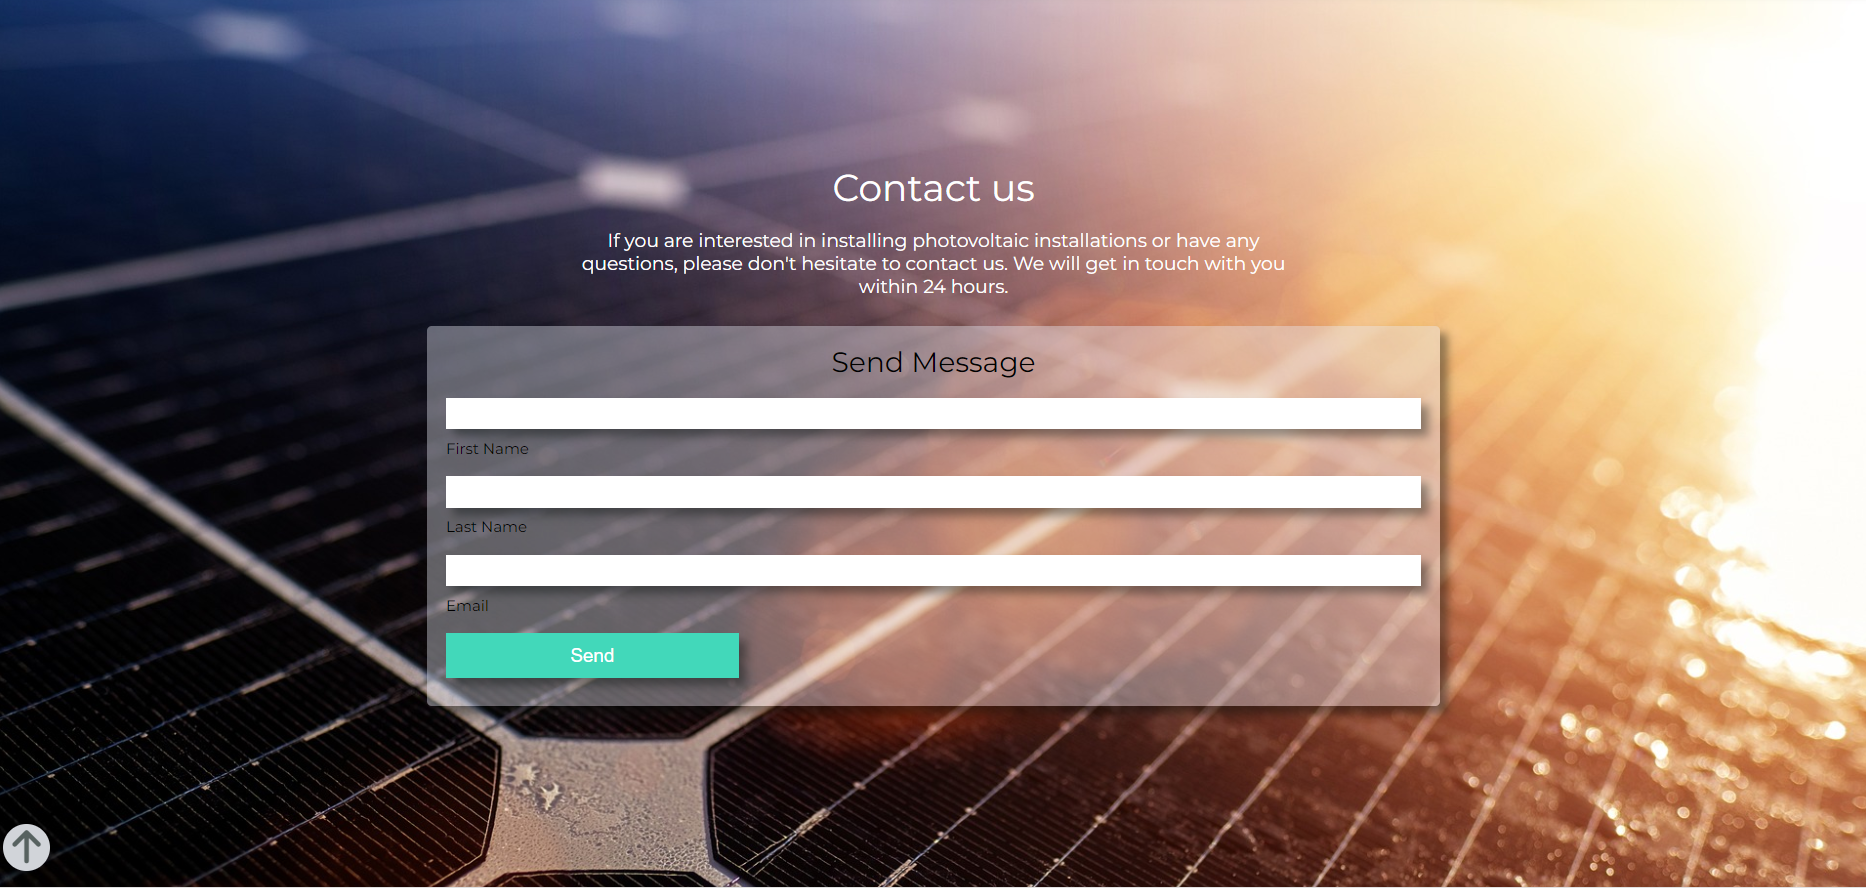
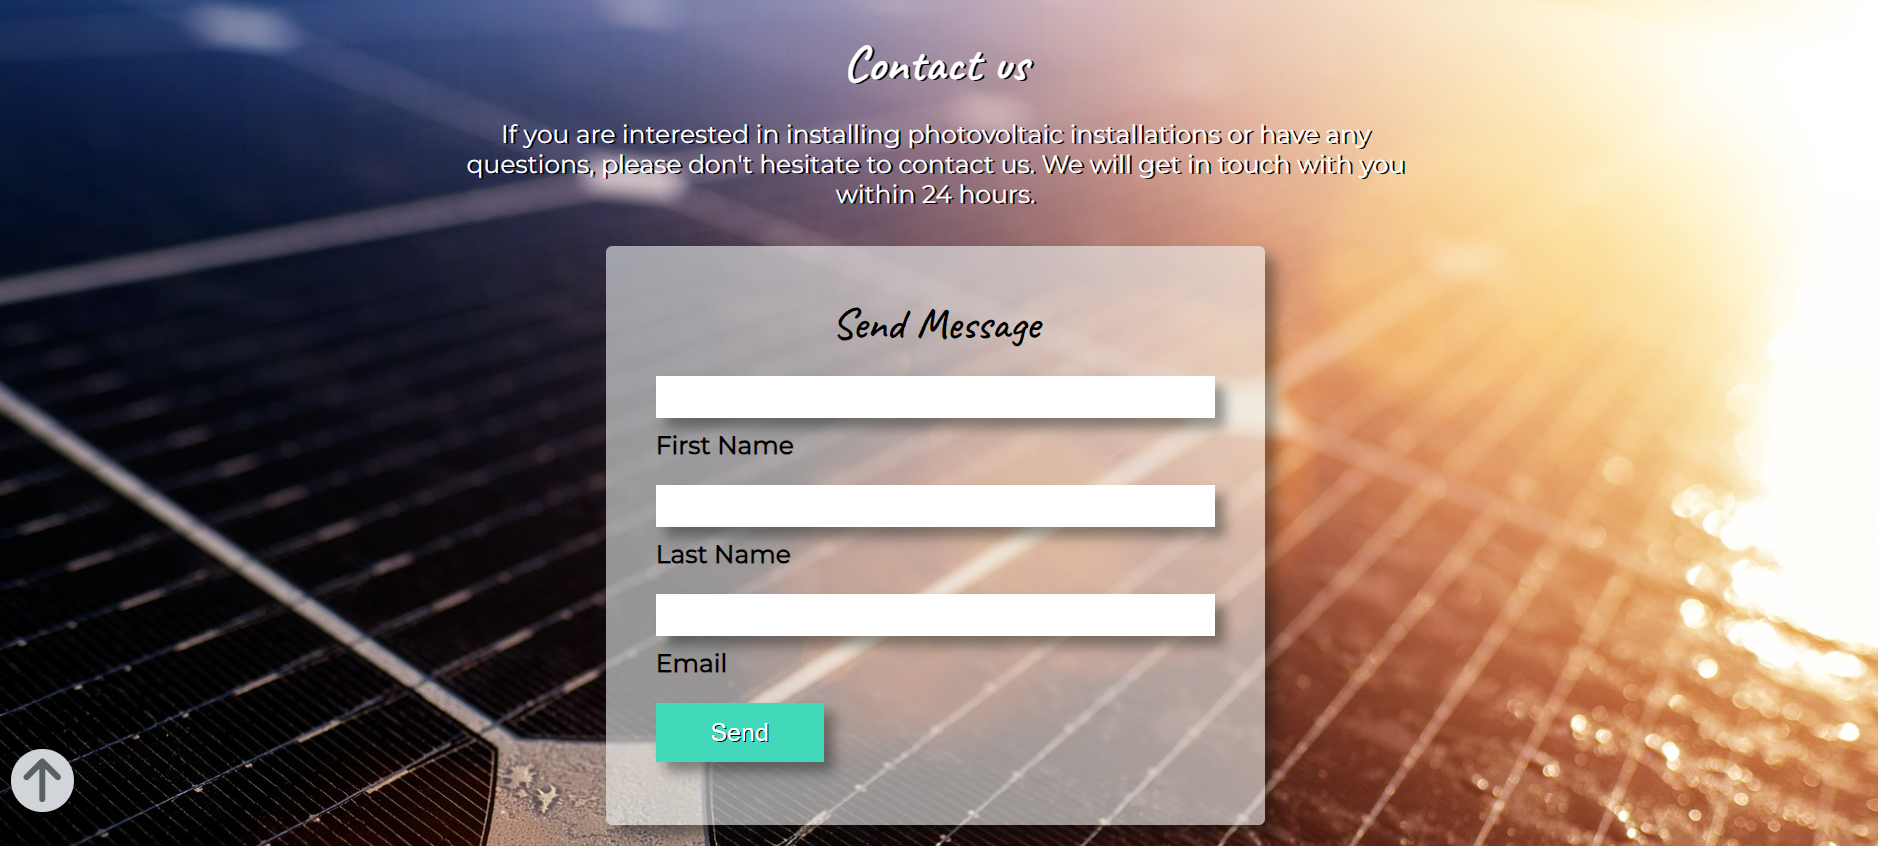
Add content to read me file

diff --git a/README.md b/README.md
@@ -1,5 +1,5 @@
 # **_Synergia Photovoltaic_**
-Synergia is a family-run business,specializing in installing photovoltaic panels, which are an ecological source of energy.
+The Synergia is a family-run business,specializing in installing photovoltaic panels, which are an ecological source of energy.
 
 ![Alt text](assests/read_me_file_photos/Synergia.png)
 
@@ -48,7 +48,7 @@ The home page is the default loading page, gallery, about us and contact pages a
 
 ## Design-choices
  * ### Typography
-      * The fonts chosen were 'Ribeye'.
+      * The fonts chosen were 'Caveat', 'Erica One family' and 'Montserrat'.
  * ### Colour Scheme
       * The colors on the page are subdued. White background, green footer, and gray navigation bar.
 
@@ -57,12 +57,12 @@ The home page is the default loading page, gallery, about us and contact pages a
 ## Existing Features  
 # Features
 
-The Synergy site is projected to be welcoming and easy to use. It contains a navigation bar and a contact form. The aim is to invite the user to get to know the page.
+The Synergia site is projected to be welcoming and easy to use. It contains a navigation bar and a contact form. The aim is to invite the user to get to know the page.
 
 ## Existing Features  
 # Features
 
-The Synergy site is designed to be easy to navigate and to encourage the user to explore more information about the company. 
+The Synergia site is designed to be easy to navigate and to encourage the user to explore more information about the company. 
 
 ## Main Page
 

diff --git a/TESTING.md b/TESTING.md
@@ -40,8 +40,8 @@ Despite trying, I was unable to resolve the error.
 The site was also tested using [Google Lighthouse](https://developers.google.com/web/tools/lighthouse) in Chrome Developer Tools.
 
 This testing showed up that there  must be made some changes in order to improve:
-* Performance (85%)- Is checking how the page performs whilst loading.
-* Accessibility(86%) - Is checking if the site is accessible for all users.
+* Performance (77%)- Is checking how the page performs whilst loading.
+* Accessibility(95%) - Is checking if the site is accessible for all users.
 * Best Practices (83%)- The site conforms to industry best practices.
 * SEO (100%)- Search engine optimization.
 
